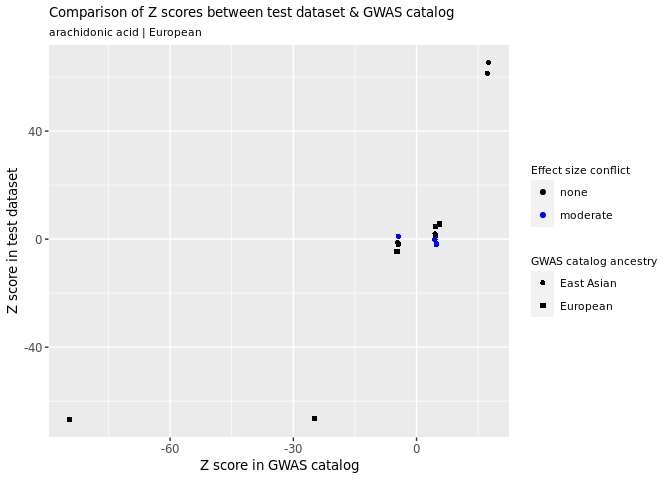
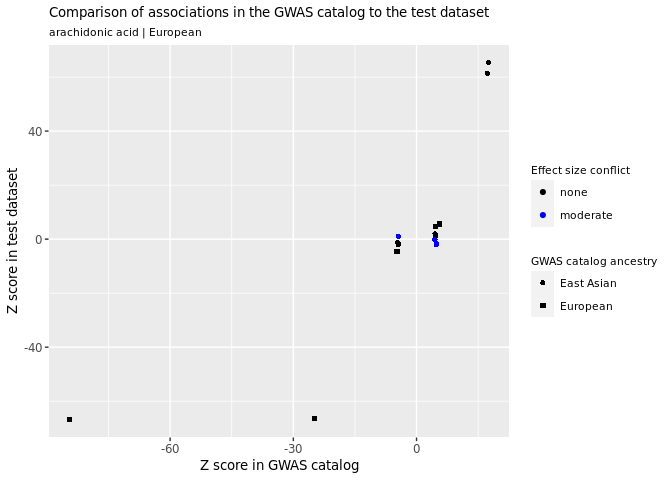
upadte readme

Changed region(s): [[0.2188, 0.0, 0.7188, 0.0625]]

diff --git a/README.md b/README.md
@@ -59,6 +59,7 @@ We now have a list of SNPs that include known genetic associations for glioma in
 
 ``` r
 length(snplist)-2297 
+#> [1] 75
 ```
 
 Next, we extract the summary associations statistics for these SNPs from the glioma dataset using the extract\_snps() function.
@@ -95,6 +96,8 @@ Plot1<-make_plot_maf(ref_1000G=c("AFR","AMR","EAS","EUR","SAS","ALL"),target_dat
 Plot1
 ```
 
+<img src="man/figures/README-make_maf_plot1-1.png" width="100%" />
+
 Data points with a red colour are SNPs with allele frequency conflicts. Allele frequencies in the glioma dataset are all greater than 0.5, indicating that the reported allele frequency column in the glioma dataset does not correspond to the reported effect allele. Notice also how conflicts are flagged across all SNPs across all superpopulations. This illustrates that allele frequency metadata errors can be identified without matching of test and reference datasets on ancestry. Notice also how the comparison provides information on the ancestral background of the test dataset: the test dataset is strongly correlated with the European 1000 genomes super population.
 
 ## Step 3. Check the effect allele metadata
@@ -107,6 +110,8 @@ Plot2<-make_plot_gwas_catalog(dat=Dat,efo_id =EFO$efo_id,trait="glioma")
 Plot2
 ```
 
+<img src="man/figures/README-make_gwascatalog_plot1-1.png" width="100%" />
+
 Each datapoint represents the Z score for glioma risk for a single SNP (scaled to reflect the reported effect allele in the GWAS catalog). The Y and X axes represent the Z scores in the test and GWAS catalog datasets, respectively. For most SNPs, the allele associated with higher risk in the GWAS catalog is associated with lower risk in the test dataset. We call these discrepancies "effect size conflicts" and it is a very strong indication for an effect allele metadata error, i.e. the reported effect allele is actually the non-effect allele. When comparing datasets, its important to make allowance for chance deviations in effect direction, especially for test datasets generated in small sample sizes. For this reason, effect size conflicts are labelled as high if the two-sided P value for the Z score is ≤0.0001 and as moderate if \>0.0001 (this is a pragmatic cutoff). When comparing datasets, one should also consider the number of SNPs. Effect size conflicts are more likely to reflect metadata errors when they are systematic across a large number of SNPs.
 
 We can also make a plot comparing effect allele frequency between the test dataset and the GWAS catalog, which we show in the next example.
@@ -115,6 +120,8 @@ We can also make a plot comparing effect allele frequency between the test datas
 Plot3<-make_plot_gwas_catalog(dat=Dat,plot_type="plot_eaf",efo=unique(Dat$efo),trait=unique(Dat$outcome))
 Plot3
 ```
+
+<img src="man/figures/README-make_gwascatalog_plot2-1.png" width="100%" />
 
 We see an inverse correlation in *reported* effect allele frequency (EAF) between the test dataset and the GWAS catalog in European ancestry studies, which confirms the metadata error identified in the previous plot. In the absence of effect allele metadata errors, the correlation in allele frequency should be positive (assuming the datasets are matched on ancestry). The reported effect allele frequency is opposite to what wed expect based on the GWAS catalog - e.g. the top left red datapoint has a frequency close to 0.8 in the test dataset but frequency of 0.2 in the GWAS catalog. We call these discrepancies EAF conflicts. EAF conflicts are labelled as moderate if EAF is close to 0.5 (i.e. 0.4 to 0.6) and as high if \<0.4 or \>0.6. This makes allowance for chance deviations in allele frequency. When making comparisons with the GWAS catalog its important to consider whether the datasets are matched on ancestry (however, this consideration does not apply for comparisons with our customised 1000 genomes reference dataset, see step 2 above).
 
@@ -152,7 +159,7 @@ Plot5<-make_plot_pred_effect(dat=Pred,bias=TRUE)
 Plot5
 ```
 
-Overall the relative bias seems small and mostly varies from -10.9% to -13.8%, which seems reasonable. Given that genetic effect sizes tend to be small, a relative bias of 10% will be very small on an absolute scale (e.g. scaling an odds ratio of 1.10 up by 10% is 1.11).
+<img src="man/figures/README-make_plot_predlnor3-1.png" width="100%" /> Overall the relative bias seems small and mostly varies from -10.9% to -13.8%, which seems reasonable. Given that genetic effect sizes tend to be small, a relative bias of 10% will be very small on an absolute scale (e.g. scaling an odds ratio of 1.10 up by 10% is 1.11).
 
 ## Step 5. Check that the top hits in the glioma test dataset are reported in the GWAS catalog
 
@@ -163,7 +170,16 @@ File<-system.file("extdata", "glioma_test_dat.txt", package = "CheckSumStats")
 gli<-extract_sig_snps(path_to_target_file=File,p_val_col_number=7)
 Dat<-format_data(dat=gli,outcome="Glioma",population="European",pmid=22886559,study="GliomaScan",ncase="cases",ncontrol="controls",rsid="Locus",effect_allele="Allele1",other_allele="Allele2",or="OR",or_lci="OR_95._CI_l",or_uci="OR_95._CI_u",eaf="eaf.controls",p="p",efo="glioma")
 gc_list<-find_hits_in_gwas_catalog(gwas_hits=Dat$rsid,efo_id=EFO$efo_id,distance_threshold=50000) 
+#> Using GRCh38.p13 of human genome from ensembl for genomic coordinates
+#> Using GRCh38.p13 of human genome from ensembl for genomic coordinates
 gc_list
+#> $not_in_gc
+#> character(0)
+#> 
+#> $in_gc
+#>  [1] "rs2736100"  "rs2853676"  "rs10120688" "rs1063192"  "rs1412829" 
+#>  [6] "rs2151280"  "rs2157719"  "rs7049105"  "rs4977756"  "rs6010620" 
+#> [11] "rs6089953"
 ```
 
 All the top hits for glioma in the test dataset are either associated with glioma in the GWAS cataog or are in close physical proximity to a reported association for glioma (see $in\_gc).
@@ -177,6 +193,8 @@ Plot6<-zz_plot(dat=Dat)
 Plot6
 ```
 
+<img src="man/figures/README-make_zz_plot1-1.png" width="100%" />
+
 ## Step 6. Combine all plots into a single report for the glioma GWAS
 
 Next we combine all the plots into a single report.
@@ -184,7 +202,7 @@ Next we combine all the plots into a single report.
 ``` r
 Plot_list2<-ls()[grep("Plot[0-9]",ls())] 
 Plot_list<-lapply(1:length(Plot_list2),FUN=function(x) eval(parse(text=Plot_list2[x])))
-combine_plots(Plot_list=Plot_list,out_file="qc_report.png")
+combine_plots(Plot_list=Plot_list,out_file="~/qc_report.png")
 ```
 
 !["qc\_report.png"](/man/figures/README-qc_report.png)
@@ -225,7 +243,7 @@ For the vast majority of SNPs, allele frequencies are compatible between the tes
 ## Step 3. Check effect allele metadata for arachidonic acid
 
 ``` r
-Plot2<-make_plot_gwas_catalog(dat=Dat,efo_id=EFO$efo_id,trait="Plasma omega-6 polyunsaturated fatty acid levels (arachidonic acid)",beta="beta",se="se")
+Plot2<-make_plot_gwas_catalog(dat=Dat,efo_id=EFO$efo_id,trait="Plasma omega-6 polyunsaturated fatty acid levels (arachidonic acid)",beta="beta",se="se",Title = "Comparison of associations in the GWAS catalog to the test dataset")
 Plot2
 ```
 
@@ -253,7 +271,7 @@ Clump<-ieugwasr::ld_clump(clump_r2 = 0.01,clump_p=1e-8,dplyr::tibble(rsid=Dat$rs
 #> API: public: http://gwas-api.mrcieu.ac.uk/
 #> Please look at vignettes for options on running this locally if you need to run many instances of this command.
 #> Using access token. For info on how this is used see logging_info()
-#> ℹ 2021-08-20 14:40:39 > Setting client.id from options(googleAuthR.client_id)
+#> ℹ 2021-08-20 15:03:22 > Setting client.id from options(googleAuthR.client_id)
 #> → Using an auto-discovered, cached token
 #>   To suppress this message, modify your code or options to clearly consent to
 #>   the use of a cached token
@@ -315,9 +333,10 @@ gc_list
 #> $in_gc
 #> [1] "rs174528" "rs472031" "rs1741"
 
-Plot5<-make_plot_gwas_catalog(dat=Dat,efo_id=EFO$efo_id,trait="Plasma omega-6 polyunsaturated fatty acid levels (arachidonic acid)",force_all_trait_study_hits=TRUE,beta="beta",se="se")
+Plot5<-make_plot_gwas_catalog(dat=Dat,efo_id=EFO$efo_id,trait="Plasma omega-6 polyunsaturated fatty acid levels (arachidonic acid)",force_all_trait_study_hits=TRUE,beta="beta",se="se",Title = "Comparison of top hits in test dataset to GWAS catalog")
 #> Using GRCh38.p13 of human genome from ensembl for genomic coordinates
 #> Using GRCh38.p13 of human genome from ensembl for genomic coordinates
+
 Plot5
 ```
 
@@ -343,31 +362,13 @@ Lets combine all the key figures into a single report
 ``` r
 Plot_list2<-c("Plot1","Plot2","Plot3","Plot4","Plot5","Plot6")
 Plot_list<-lapply(1:length(Plot_list2),FUN=function(x) eval(parse(text=Plot_list2[x])))
-combine_plots(Plot_list=Plot_list,out_file="qc_report2.png")
+combine_plots(Plot_list=Plot_list,out_file="~/qc_report2.png")
 ```
 
 !["qc\_report.png"](/man/figures/README-qc_report2.png)
 
 # Acknowledgements
 
-We gratefully acknowledge the help of Ramiro Magno for their help and advice with the gwasrapidd package, which extracts associations from the NHGRI-EBI GWAS catalog.
+We gratefully acknowledge the help of Ramiro Magno for their help and advice with the gwasrapidd package.
 
-\*CheckSumStats greatfully acknowledges the following packages, which support the above functions and tests:
-
-    gwasrapidd
-    ggplot2
-    grid
-    gridExtra
-    cowplot
-    grDevices
-    ieugwasr
-    knitr
-    biomaRt
-    purrr
-    dplyr
-    tibble
-    magrittr
-    curl
-    plyr
-    utils
-    +stats
+\*CheckSumStats greatfully acknowledges the following packages: gwasrapidd ggplot2 grid gridExtra cowplot grDevices ieugwasr knitr biomaRt purrr dplyr tibble magrittr curl plyr utils +stats
